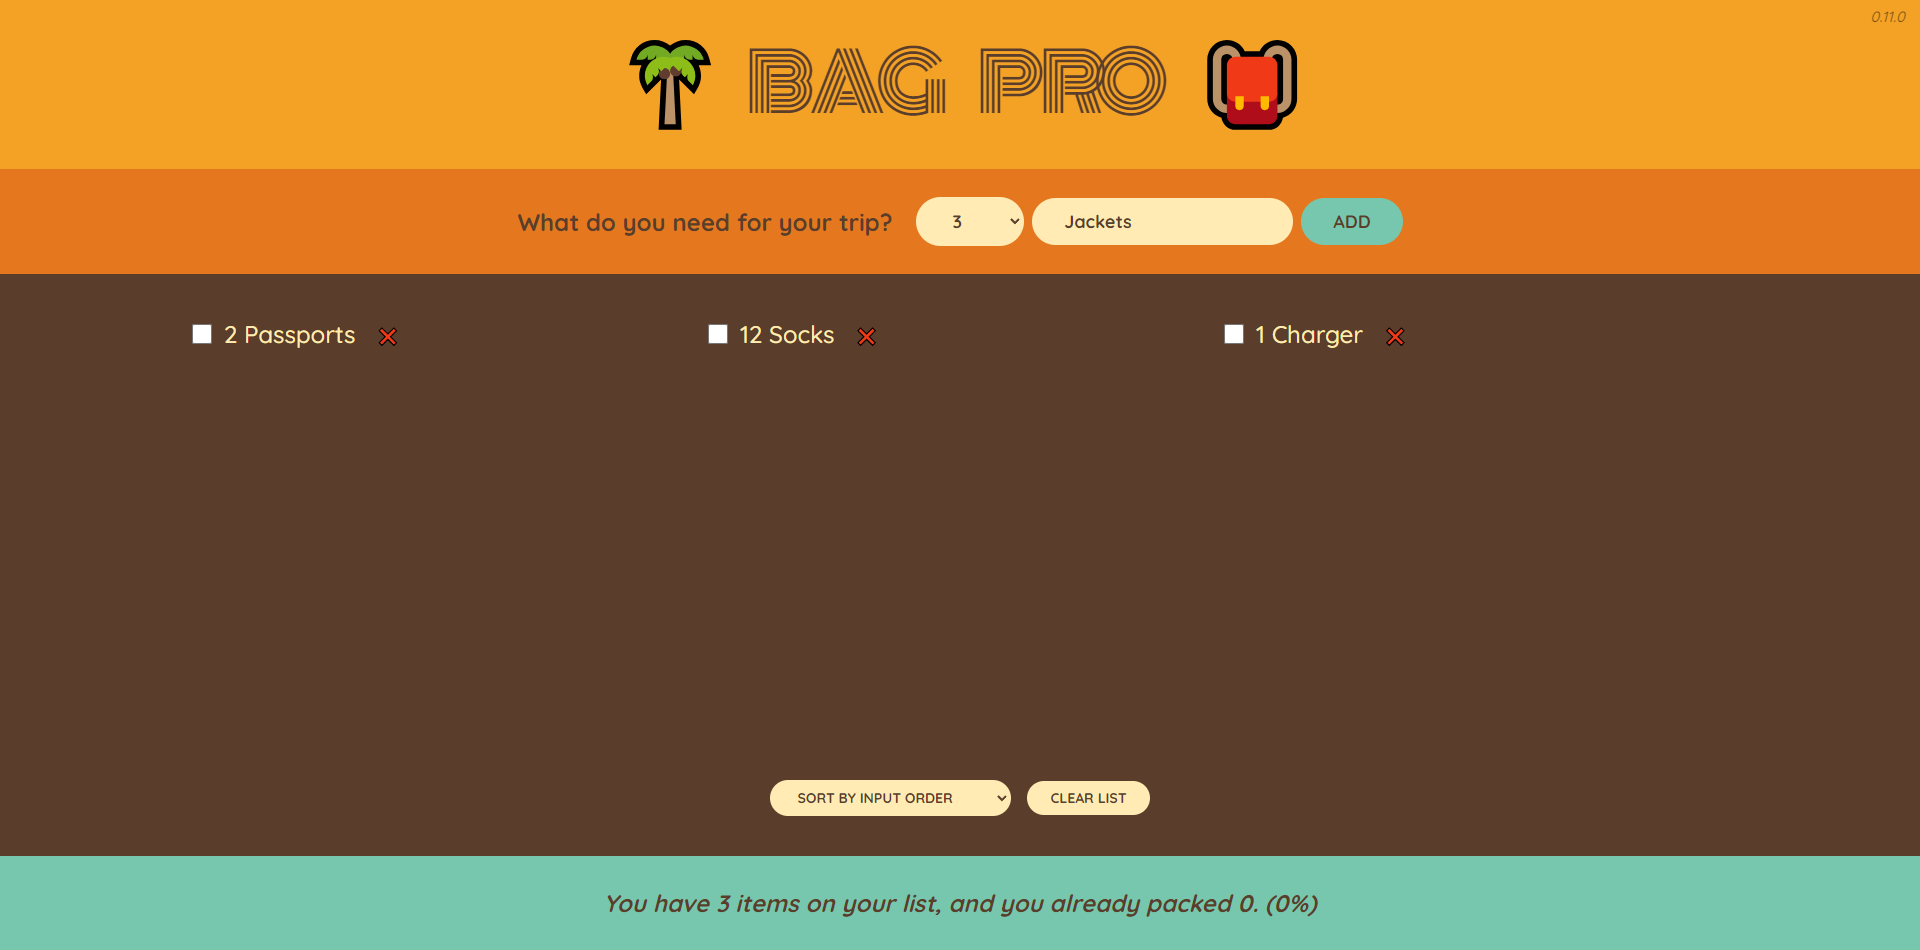
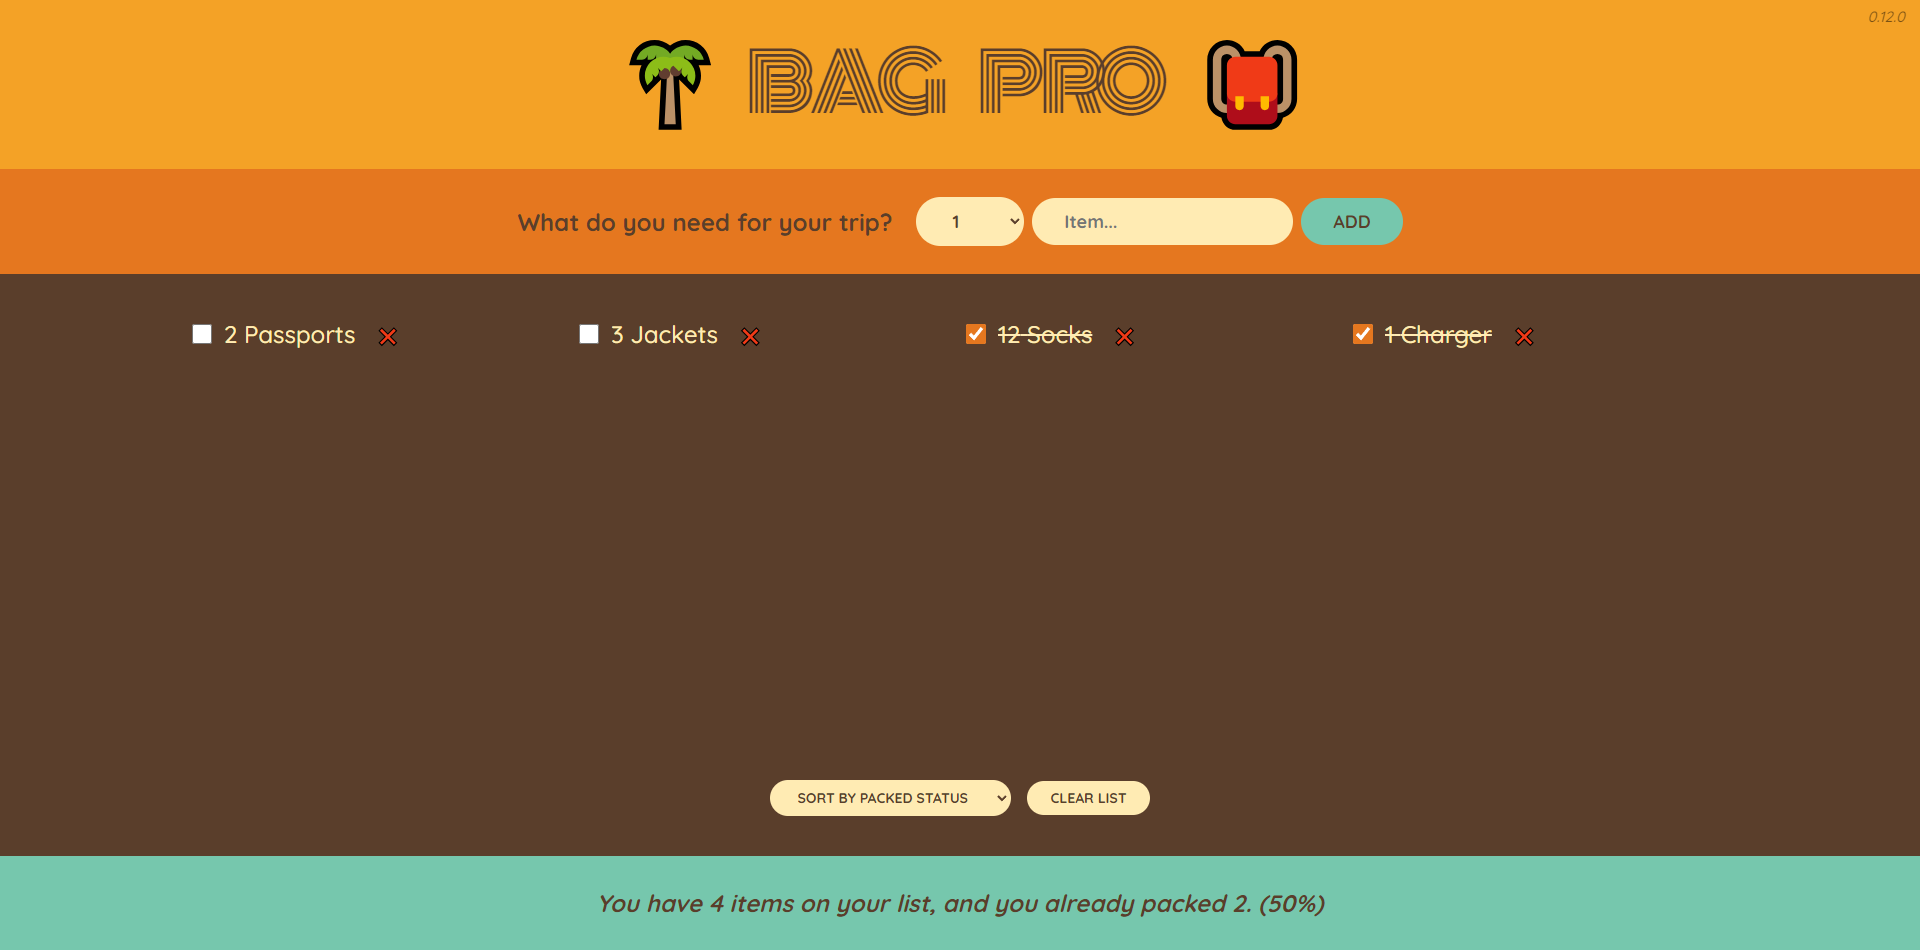
BAG PRO 0.12.0
Add Components Files JS
Update App.js
Update index.js

diff --git a/src/components/App.js b/src/components/App.js
@@ -1,0 +1,46 @@
+import { useState } from 'react';
+import Logo from "./Logo";
+import Form from "./Form";
+import PackingList from './PackingList';
+import Stats from './Stats';
+import VersionWatermark from './VersionWatermark';
+
+const initialItems = [
+  { id: 1, description: "Passports", quantity: 2, packed: false },
+  { id: 2, description: "Socks", quantity: 12, packed: false },
+  { id: 3, description: "Charger", quantity: 1, packed: false },
+];
+
+export default function App() {
+  const [items, setItems] = useState(initialItems);
+
+  function handleAddItems(item) {
+    setItems(items => [...items, item]);
+  };
+
+  function handleDeleteItem(id) {
+    setItems(items => items.filter(item => item.id !== id));
+  };
+
+  function handleToggleItem(id) {
+    setItems(items => items.map(item => item.id === id ? { ...item, packed: !item.packed } : item));
+  };
+
+  function handleClearList() {
+    const confirmed = window.confirm("Are you sure you want to delete all items?")
+
+    if (confirmed) {
+      setItems([]);
+    };
+  };
+
+  return (
+    <div className="app">
+      <Logo />
+      <Form onAddItems={handleAddItems} />
+      <PackingList items={items} onDeleteItem={handleDeleteItem} onToggleItem={handleToggleItem} onClearList={handleClearList} />
+      <Stats items={items} />
+      <VersionWatermark />
+    </div>
+  );
+};

diff --git a/src/components/PackingList.js b/src/components/PackingList.js
@@ -1,0 +1,25 @@
+import { useState } from "react";
+import Item from "./Item";
+
+export default function PackingList({ items, onDeleteItem, onToggleItem, onClearList }) {
+    const [sortBy, setSortBy] = useState("input");
+    let sortedItems;
+
+    if (sortBy === "input") sortedItems = items;
+    if (sortBy === "description") sortedItems = items.slice().sort((a, b) => a.description.localeCompare(b.description));
+    if (sortBy === "packed") sortedItems = items.slice().sort((a, b) => Number(a.packed) - Number(b.packed));
+
+    return (
+        <div className="list">
+            <ul>{sortedItems.map(item => <Item item={item} key={item.id} onDeleteItem={onDeleteItem} onToggleItem={onToggleItem} />)}</ul>
+            <div className="actions">
+                <select value={sortBy} onChange={e => setSortBy(e.target.value)}>
+                    <option value="input">Sort by input order</option>
+                    <option value="description">Sort by description</option>
+                    <option value="packed">Sort by packed status</option>
+                </select>
+                <button onClick={onClearList}>Clear list</button>
+            </div>
+        </div>
+    );
+};

diff --git a/src/components/Form.js b/src/components/Form.js
@@ -1,0 +1,28 @@
+import { useState } from "react";
+
+export default function Form({ onAddItems }) {
+    const [description, setDescription] = useState("Jackets");
+    const [quantity, setQuantity] = useState(3);
+
+    function handleSubmit(e) {
+        e.preventDefault();
+        if (!description) {
+            return
+        };
+        const newItem = { description, quantity, packed: false, id: Date.now() };
+        onAddItems(newItem);
+        setDescription("");
+        setQuantity(1);
+    };
+
+    return (
+        <form className="add-form" onSubmit={handleSubmit}>
+            <h3>What do you need for your trip?</h3>
+            <select value={quantity} onChange={(e) => setQuantity(Number(e.target.value))}>
+                {Array.from({ length: 20 }, (_, i) => i + 1).map(num => (<option value={num} key={num}>{num}</option>))}
+            </select>
+            <input type="text" placeholder="Item..." value={description} onChange={(e) => setDescription(e.target.value)} />
+            <button>Add</button>
+        </form >
+    );
+};

diff --git a/src/components/Stats.js b/src/components/Stats.js
@@ -1,0 +1,19 @@
+export default function Stats({ items }) {
+    if (!items.length) {
+        return (
+            <p className="stats">
+                <em>Start adding some items to your packing list ✈</em>
+            </p>
+        );
+    };
+
+    const numItems = items.length;
+    const numPacked = items.filter(item => item.packed).length;
+    const percentage = Math.round(numPacked / numItems * 100);
+
+    return (
+        <footer className="stats">
+            <em>{percentage === 100 ? "You got everything! Ready to go!" : `You have ${numItems} items on your list, and you already packed ${numPacked}. (${percentage}%)`}</em>
+        </footer>
+    );
+};

diff --git a/src/components/Item.js b/src/components/Item.js
@@ -1,0 +1,11 @@
+export default function Item({ item, onDeleteItem, onToggleItem }) {
+    return (
+        <li>
+            <input type="checkbox" value={item.packed} onChange={() => { onToggleItem(item.id); }} />
+            <span style={item.packed ? { textDecoration: "line-through" } : {}}>
+                {item.quantity} {item.description}
+            </span>
+            <button onClick={() => onDeleteItem(item.id)}>❌</button>
+        </li>
+    );
+};

diff --git a/src/index.js b/src/index.js
@@ -1,6 +1,6 @@
 import './index.css';
-import App from './App';
 import React from 'react';
+import App from './components/App';
 import ReactDOM from 'react-dom/client';
 
 const root = ReactDOM.createRoot(document.getElementById('root'));

diff --git a/src/components/VersionWatermark.js b/src/components/VersionWatermark.js
@@ -1,0 +1,7 @@
+export default function VersionWatermark() {
+    const version = require('../../package.json').version;
+
+    return (
+        <div className="versionWatermark">{version}</div>
+    );
+};

diff --git a/src/components/Logo.js b/src/components/Logo.js
@@ -1,0 +1,5 @@
+export default function Logo() {
+    return (
+        <h1>🌴 Bag Pro 🎒</h1>
+    );
+};

diff --git a/README.md b/README.md
@@ -10,7 +10,7 @@
 
 - **STACK :**
 
-  - **Bag Pro** : `0.11.0`
+  - **Bag Pro** : `0.12.0`
   - **React** : `18.3.1`
   - **React Dom** : `18.3.1`
 
